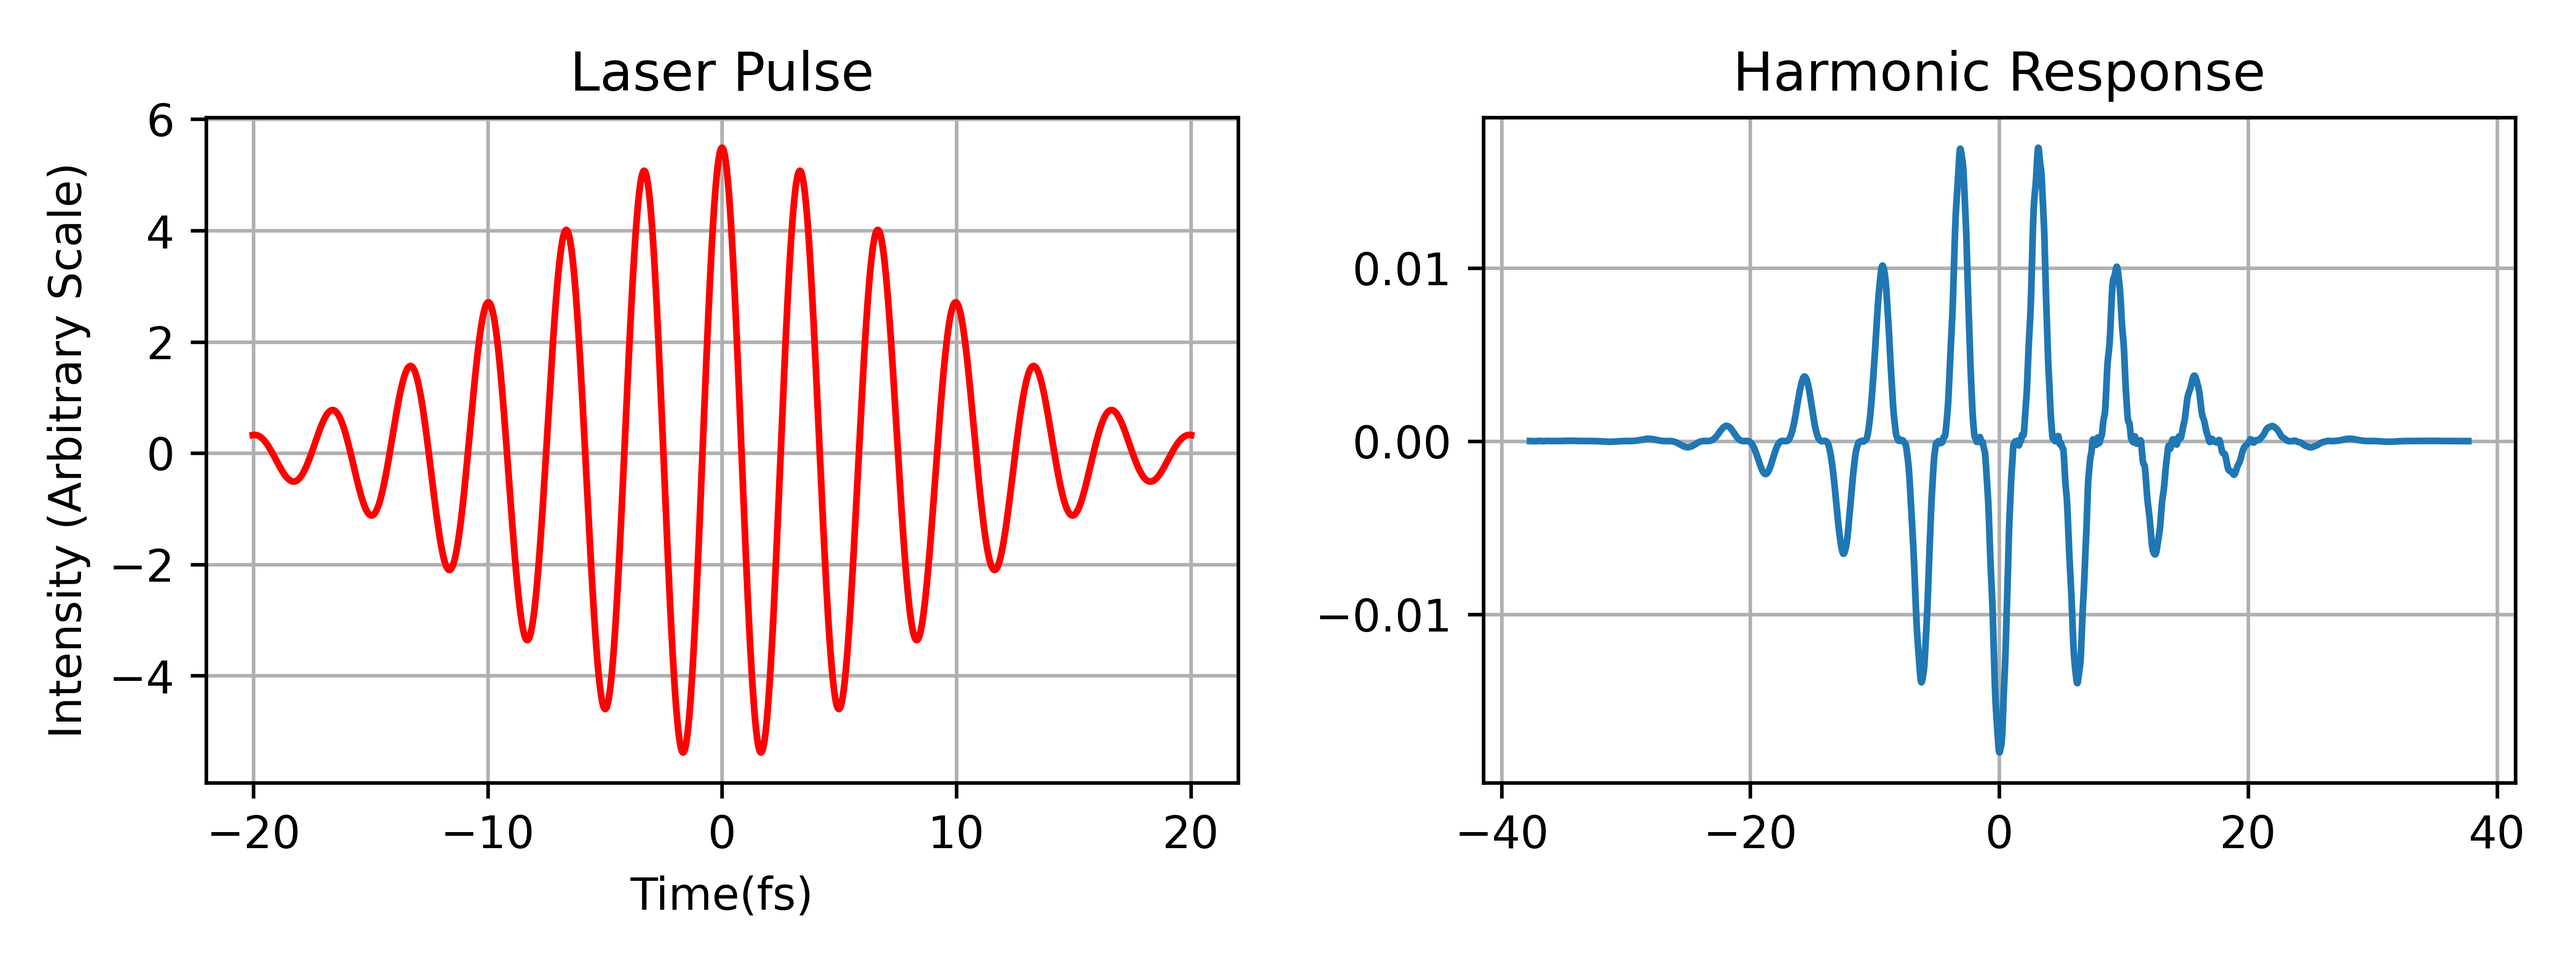
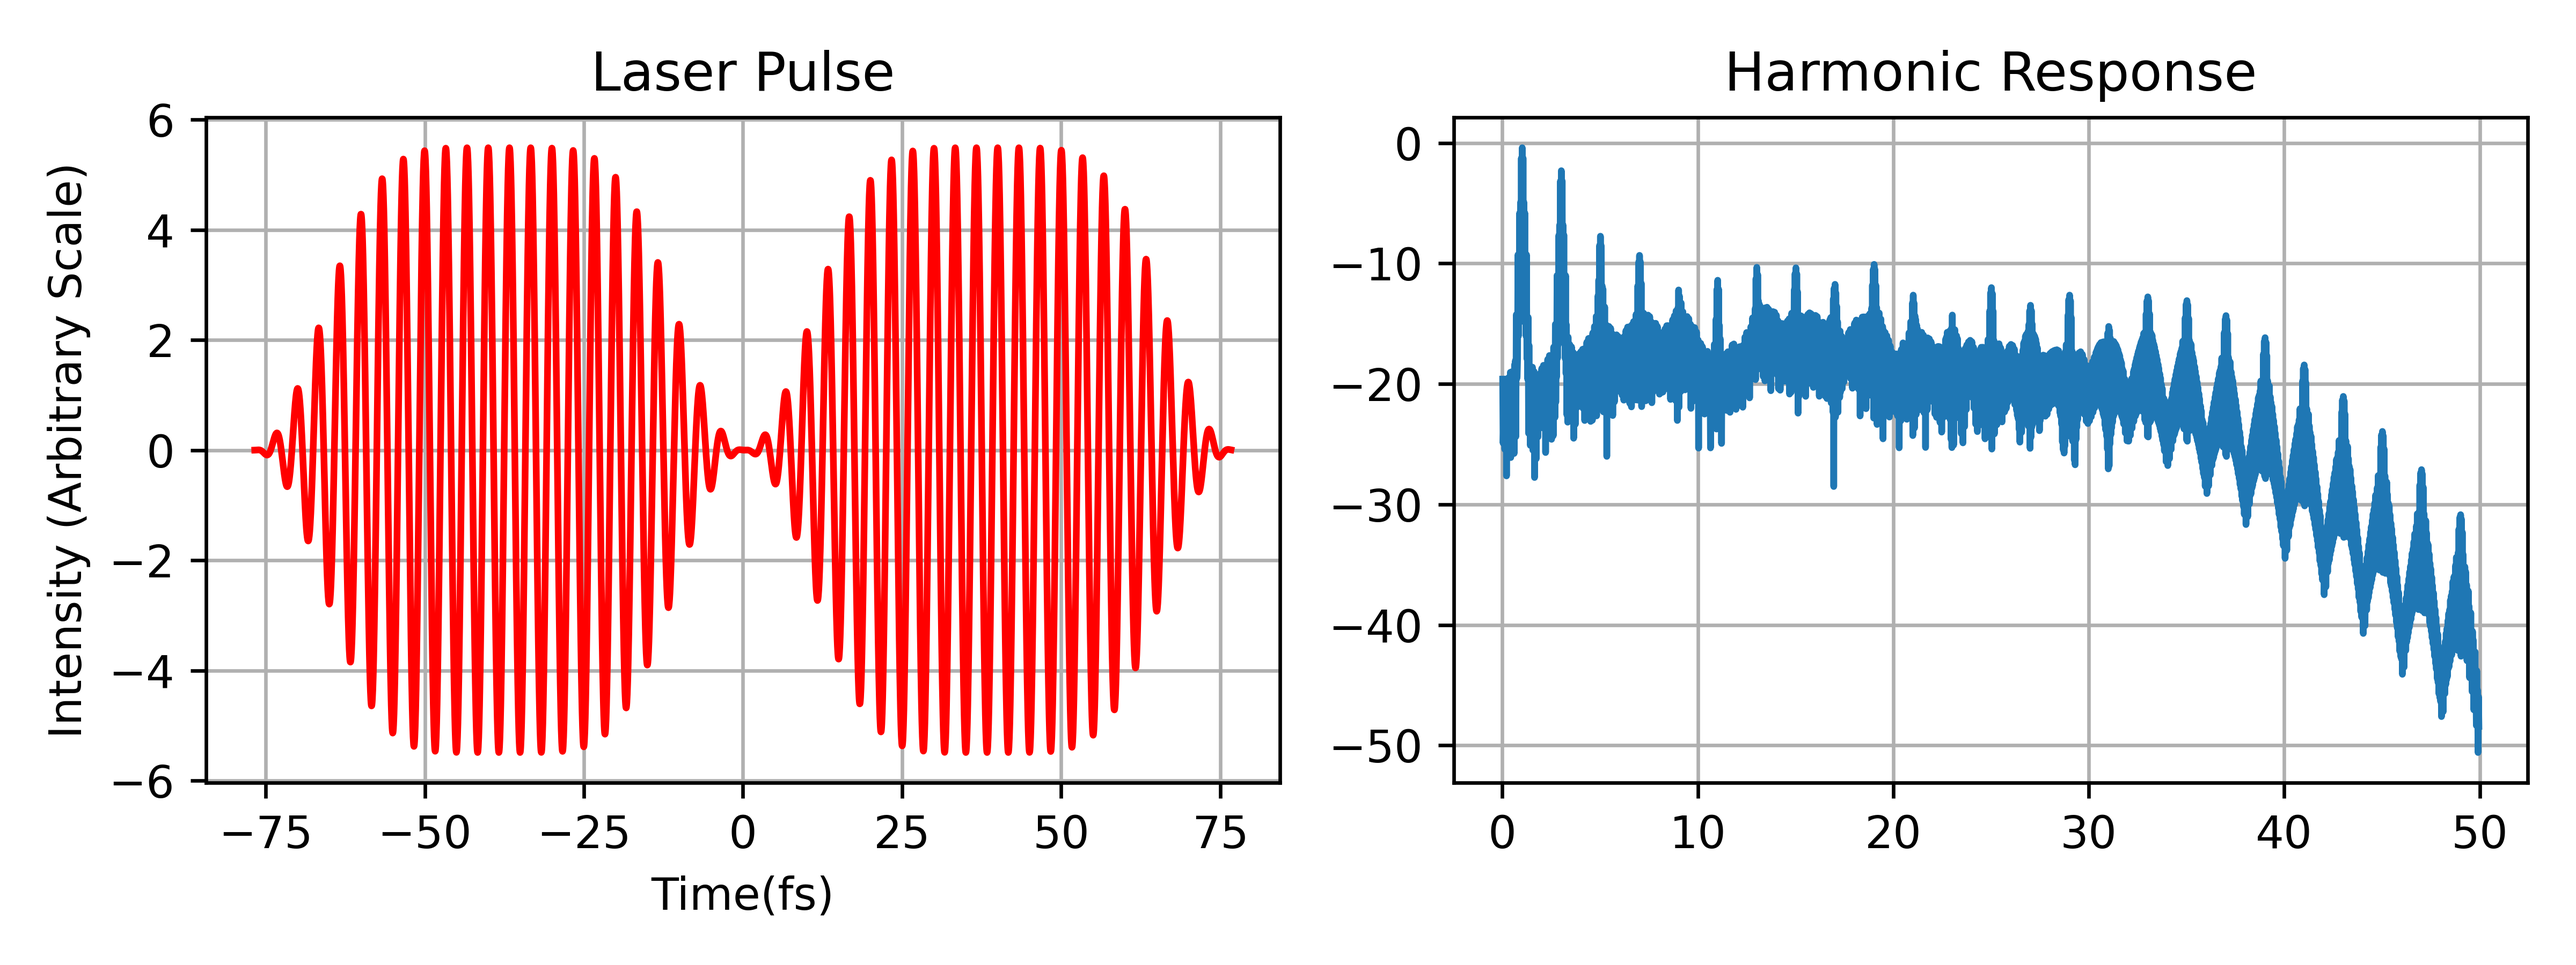
Gonna make big changes

diff --git a/examples/1D_single_atom.py b/examples/1D_single_atom.py
@@ -32,11 +32,13 @@ sau =  general_tools.sau_convert
 '''
 
 
-config.calculation_cycles = 12
-config.ppcycle = 800
+config.calculation_cycles = 46
+config.pulses = 1
+config.padding = 10 # In fs
+config.ppcycle = 100
 config.wavelength = 1e-3
 config.peak_intensity = 1e14
-config.pulse_shape = 'gaussian'
+config.pulse_shape = 'sin_6'
 config.pulse_duration = 14# In fs
 config.parallel = False
 
@@ -123,7 +125,7 @@ print('That took {} seconds'.format(time.time()-firststart))
 fig,axs = plt.subplots(1,2,figsize=(8,3))
 
 # axs[0].plot(omega1,response1)
-# axs[1].plot(omega1[np.where(omega1<valrang[1])],response1)
+axs[1].plot(omega1[np.where(omega1<valrang[1])],response1)
 response = np.load('/home/alex/Desktop/Python/SNAIL/src/stored_arrays/single.npy')
 
 axs[1].set_title('Harmonic Response')
@@ -138,7 +140,7 @@ axs[0].set_title('Laser Pulse')
 # axs[0].set_xlabel('High Harmonic Order')`
 t = general_tools.generate_t(config)
 t_fs = general_tools.sau_convert(t,'t','SI',config)/1e-15
-axs[1].plot(t,response)
+# axs[1].plot(t,response)^
 np.save('/home/alex/Desktop/Python/SNAIL/src/stored_arrays/zakariatime.npy',t_fs)
 axs[0].plot(t_fs,driving_field,'r-')
 axs[0].set_xlabel('Time(fs)')

diff --git a/src/general_tools.py b/src/general_tools.py
@@ -13,7 +13,7 @@ class config:
 
 def generate_t(config):
     """
-    A function to generate the time axis in SAU, using the number of cycles 
+    A function to generate the time axis in femtoseconds given the specific pulse information.
     """
     
     return 2*np.pi*np.arange(-config.calculation_cycles/2,config.calculation_cycles/2,1/config.ppcycle) 
@@ -231,6 +231,7 @@ def dipole_response(points,driving_field,config,t=np.array([])):
     
     for point in points:
         xi,yi,zi = point
+        # t = sau_convert(t,'t','SI',config)
         d_t = lewenstein(t,driving_field,config)#*t_window
         np.save('/home/alex/Desktop/Python/SNAIL/Benflattop/responsestore/response.npy',d_t)
         np.save('/home/alex/Desktop/Python/SNAIL/src/stored_arrays/single.npy',d_t)

diff --git a/src/presets.py b/src/presets.py
@@ -15,13 +15,14 @@ import general_tools as gt
 Tilaser = gt.config
 Tilaser.calculation_cycles = 60
 Tilaser.ppcycle = 200
+Tilaser.padding = 10
 Tilaser.wavelength = 0.8e-3
 Tilaser.peak_intensity = 1e14
 Tilaser.pulse_shape = 'gaussian'
 Tilaser.pulse_duration = 35 # In fs
 Tilaser.ionization_potential = 12.13
-Tilaser.tau_window_length = 1
-Tilaser.tau_dropoff_pts = 0.4 
+Tilaser.tau_window_length = 1.5
+Tilaser.tau_dropoff_pts = 0.3
 
 field = gt.generate_pulse(Tilaser)
 t = gt.generate_t(Tilaser)
